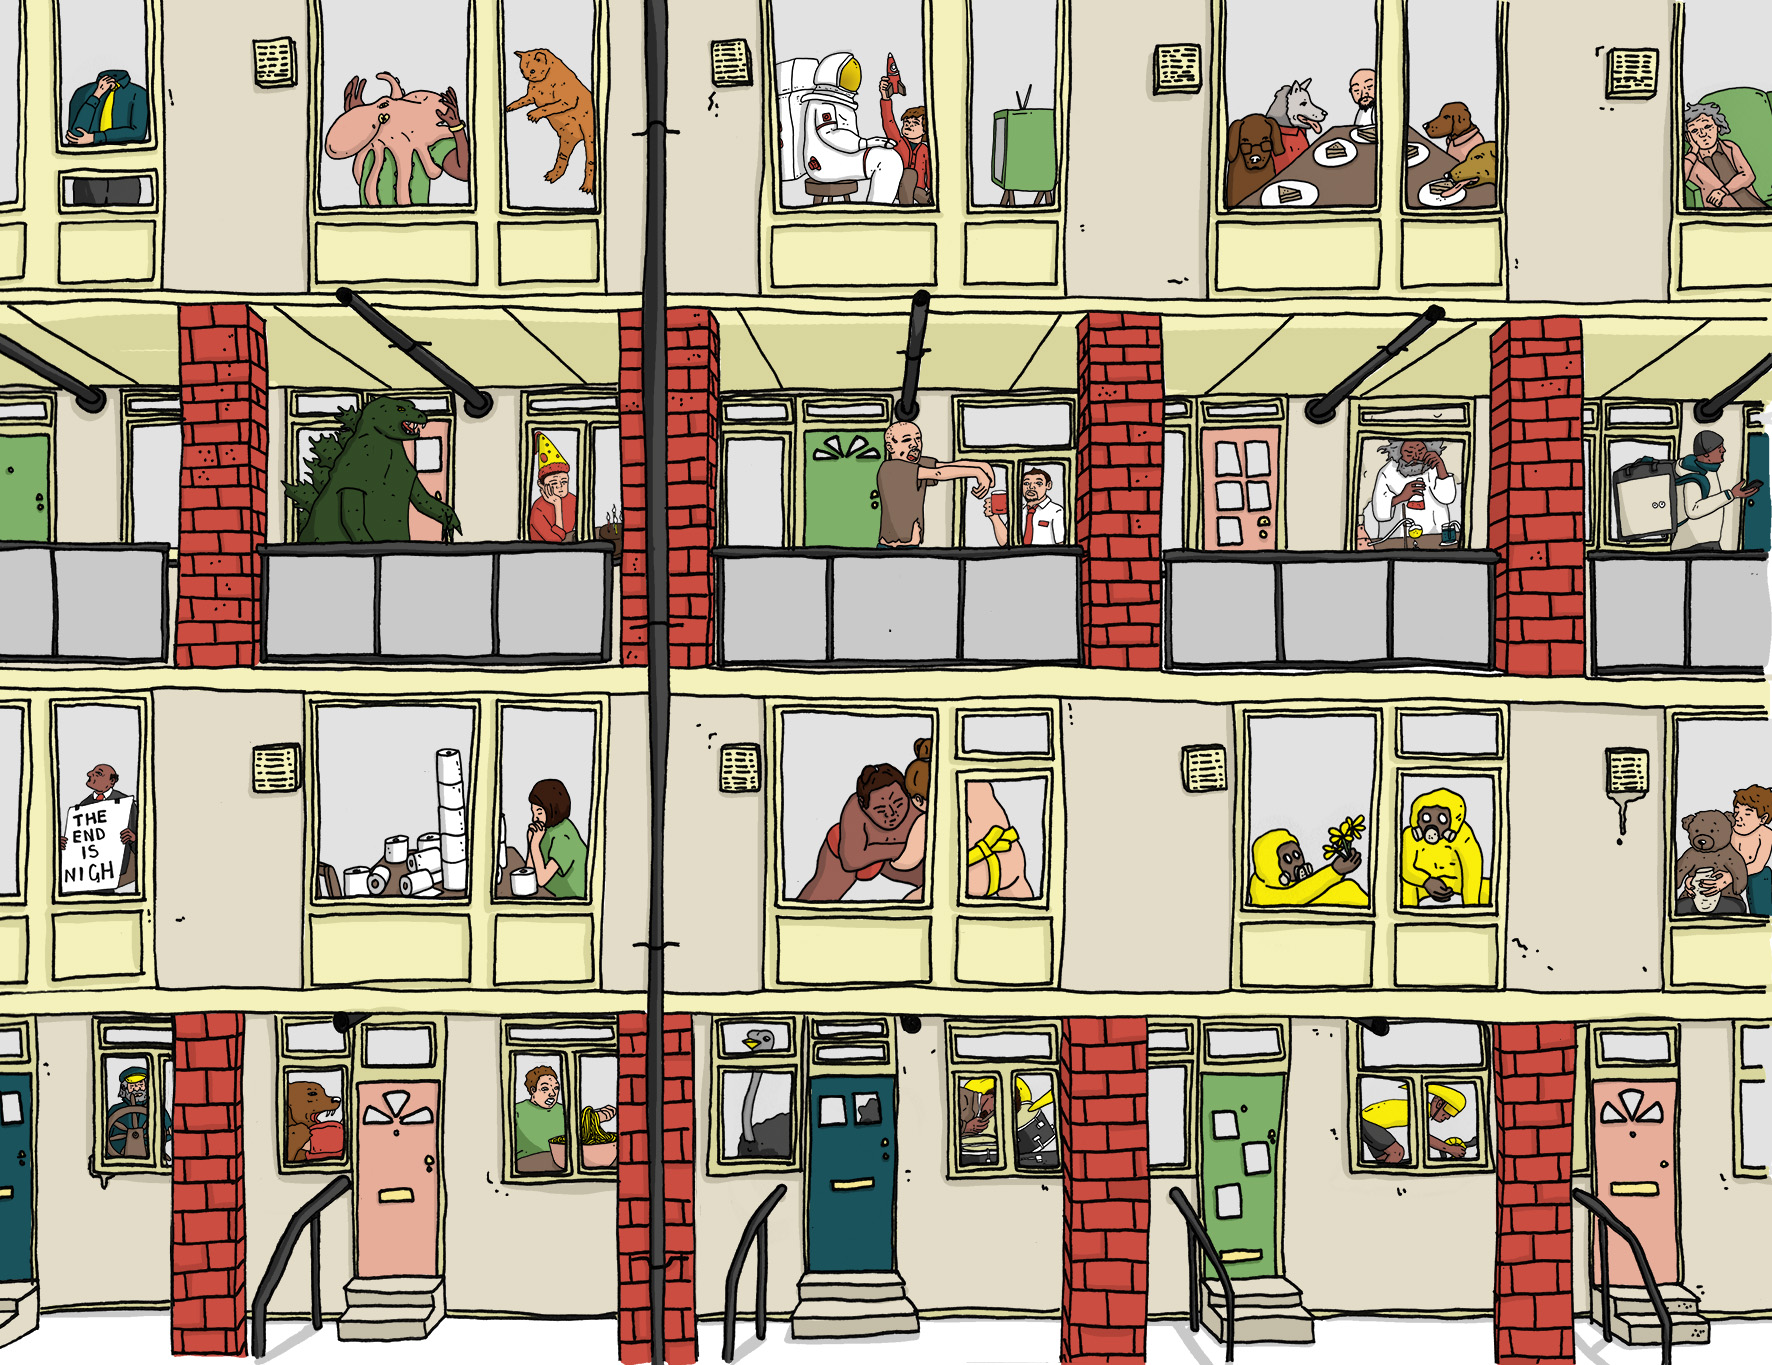
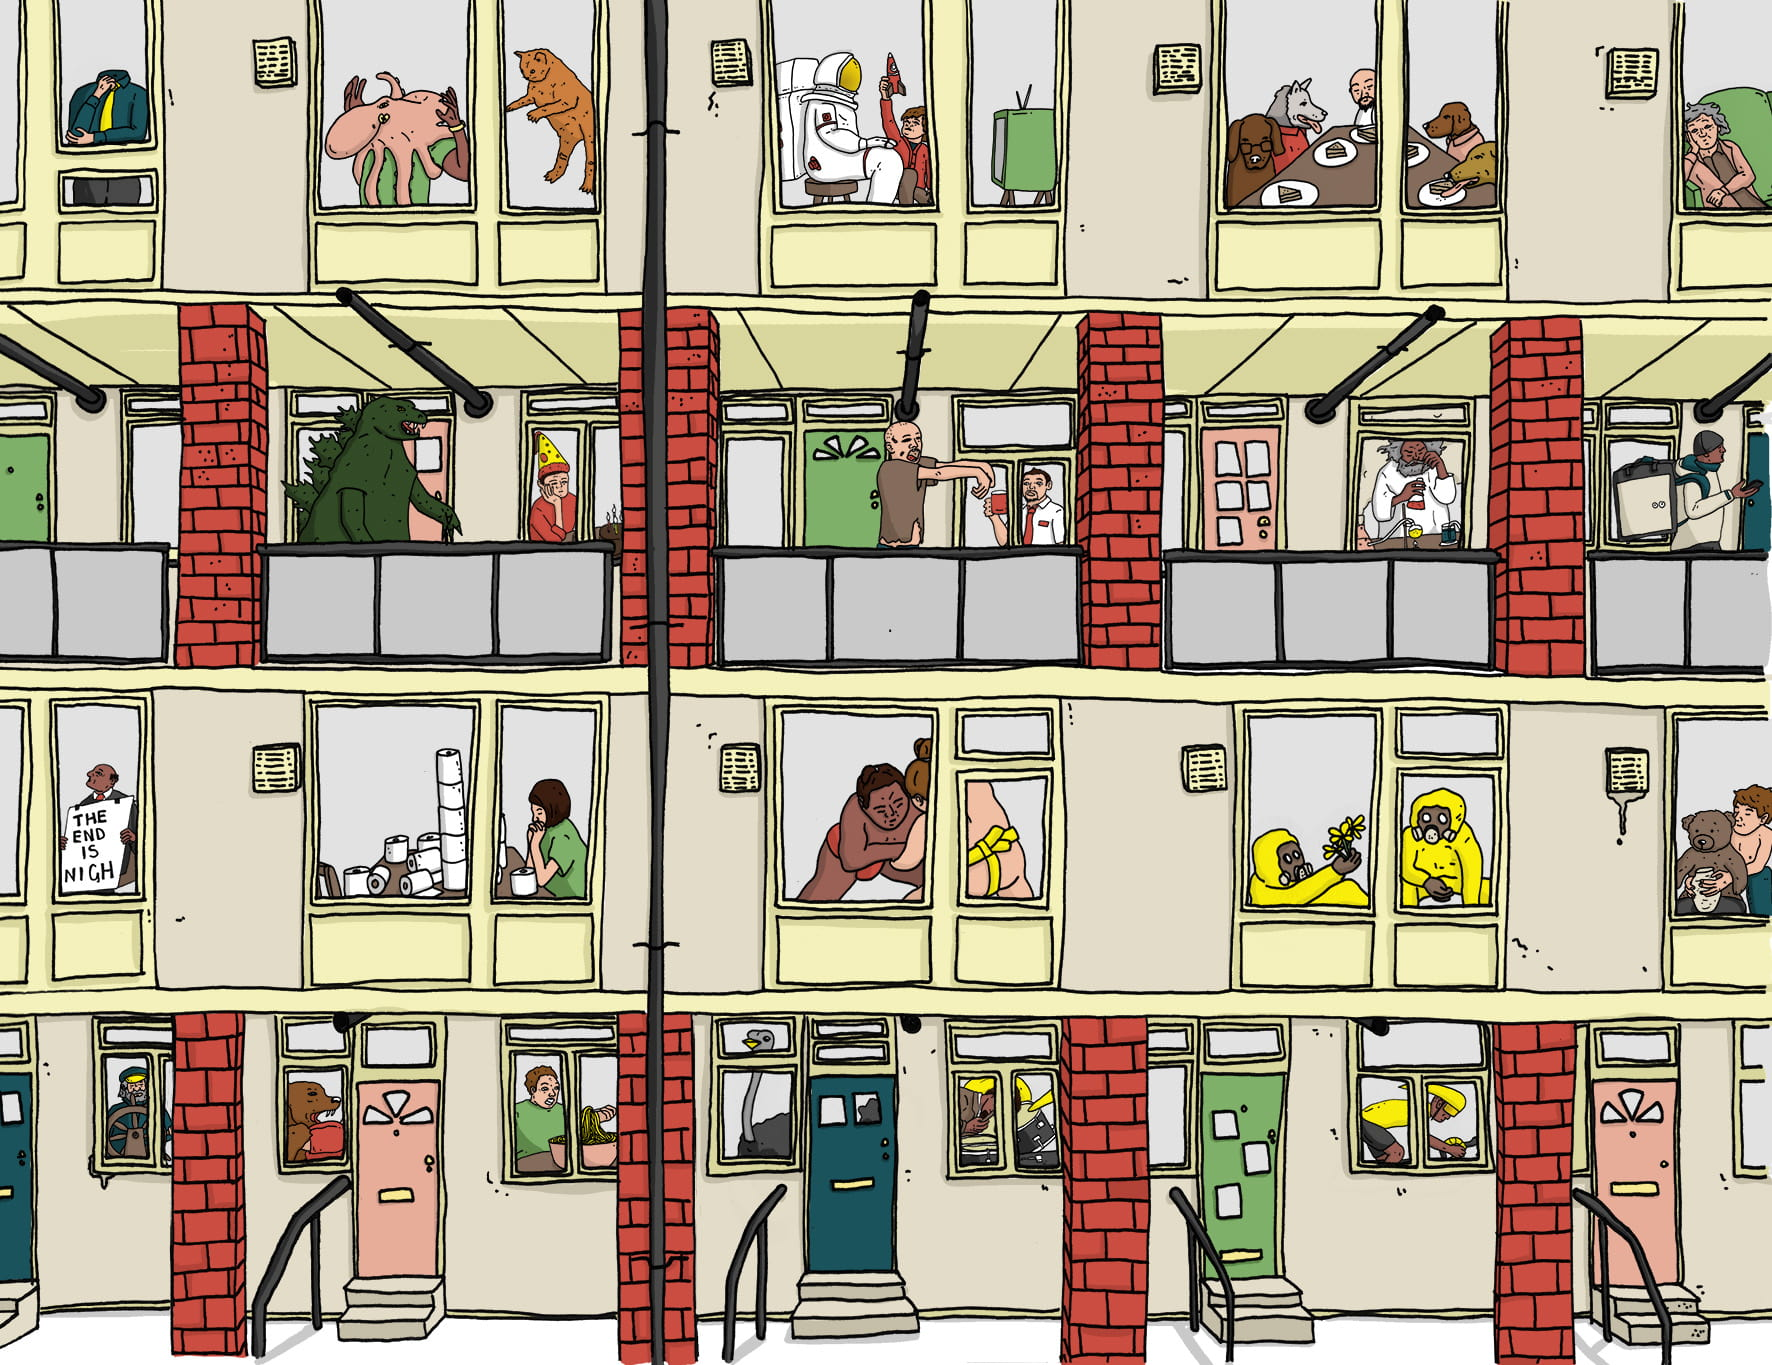
updated images with compressed

diff --git a/pages/illustration/riotChicken.js b/pages/illustration/riotChicken.js
@@ -26,7 +26,7 @@ export default class RiotChicken extends React.Component {
           </div>
           <div className={styles.body}>
             <div className={styles.mainImage}>
-              <img src='/illustration/riotChicken/menu_website.png' alt='Riot Chicken Menu Design' />
+              <img src='/illustration/riotChicken/menu_website.jpg' alt='Riot Chicken Menu Design' />
             </div>
           </div>
         </div>

diff --git a/pages/illustration/milesDavis.js b/pages/illustration/milesDavis.js
@@ -23,7 +23,7 @@ export default function milesDavis(){
         </div>
       <div className={styles.body}>
       <div className={styles.mainImage}>
-        <img src='/illustration/milesDavis/png.png' alt="Miles Runs the Voodoo Down" />
+        <img src='/illustration/milesDavis/png.jpg' alt="Miles Runs the Voodoo Down" />
       </div>
     </div>
     </div>
